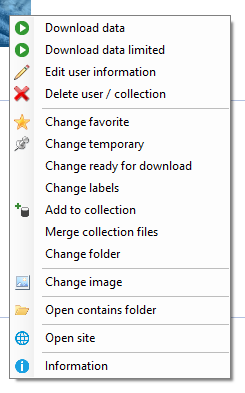
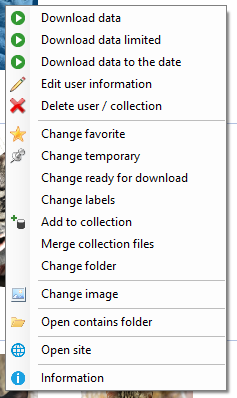
3.0.0.1
Added DownloadLimitDate, update and Reset functions in the plugin, DateLimit property in the IPluginContentProvider
Fixed donation button link, images loading error, cookies error, instagram settings form, minor bugs.

diff --git a/Changelog.md b/Changelog.md
@@ -1,3 +1,16 @@
+# 3.0.0.1
+
+- Added
+  - Download data up to a specific date
+  - Update and Reset functions in the plugin (ISiteSettings)
+  - PostsDateLimit propperty in the plugin (IPluginContentProvider)
+- Fixed
+  - The donation button redirects to a broken link
+  - In some cases, an error occurs when fast loading images
+  - In some cases, cookies are not saved
+  - Some design fixes
+  - Minor bugs
+
 # 3.0.0.0
 
 **Attention! This version of the program makes changes user data file (Users.xml). Once you start using this version, you will not be able to use previous versions of the program. Therefore, it is highly recommended to archive the program settings folder and archive the users' data files (you can use the [```ArchiveSCrawlerUsersDataFiles.bat```](Tools/ArchiveSCrawlerUsersDataFiles.bat) tool to archive the data files of all users).**
